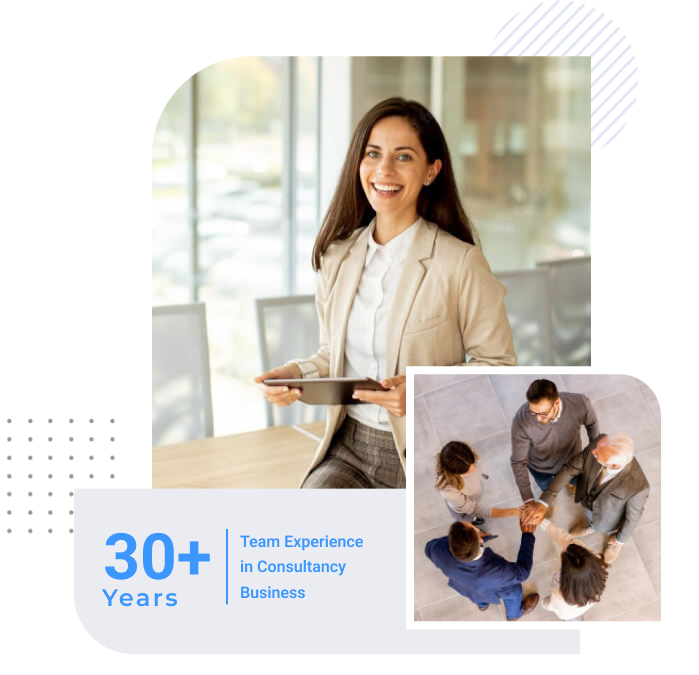
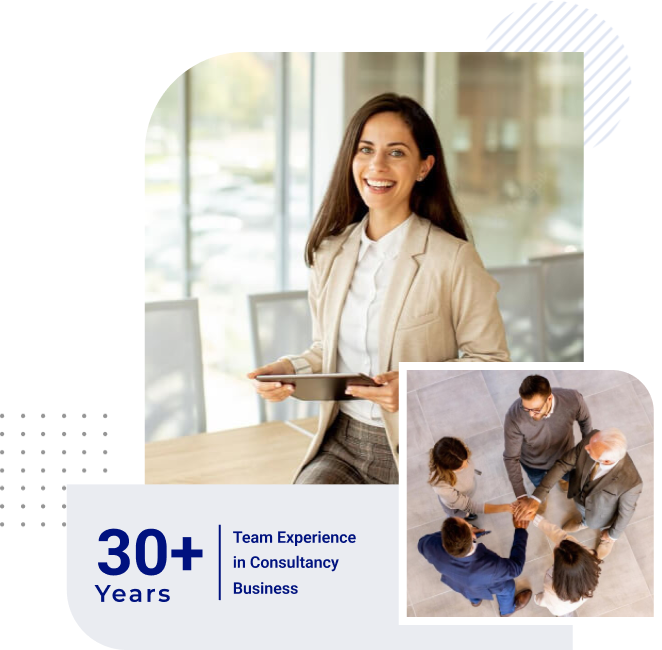
Comments update

diff --git a/src/components/footer/Footer.tsx b/src/components/footer/Footer.tsx
@@ -20,9 +20,8 @@ export const Footer: React.FC = () => {
                         <img src={footerLogo} alt="Footer Logo" className="h-15" />
                     </div>
                     <div className='flex flex-col'>
-                        <span className='font-thin'>Timings:</span>
-                        <span>Monday to Saturday</span>
-                        <span>9.30am to 7pm IST</span>
+                        <span className='text-gray-description text-sm'>Monday to Saturday</span>
+                        <span className='text-gray-description text-sm'>9.30 am - 7 pm IST</span>
                     </div>
                 </div>
 
@@ -41,14 +40,14 @@ export const Footer: React.FC = () => {
                     <h3 className="text-lg font-semibold text-gray-800 mb-4">Quick Links</h3>
                     <div className="flex space-x-16">
                         <ul className="space-y-2 text-gray-description text-sm">
-                            <li><a href={urls.rbi} target='_blank' className="hover:underline hover:text-blue-custom">RBI</a></li>
-                            <li><a href={urls.gst} target='_blank' className="hover:underline hover:text-blue-custom">GST Gov.</a></li>
-                            <li><a href={urls.mca} target='_blank' className="hover:underline hover:text-blue-custom">MCA Gov.</a></li>
+                            <li><a href={urls.rbi} target='_blank' className="hover:underline">RBI</a></li>
+                            <li><a href={urls.gst} target='_blank' className="hover:underline">GST Gov.</a></li>
+                            <li><a href={urls.mca} target='_blank' className="hover:underline">MCA Gov.</a></li>
                         </ul>
                         <ul className="space-y-2 text-gray-description text-sm">
-                            <li><a href={urls.incomeTax} target='_blank' className="hover:underline hover:text-blue-custom">Income Tax India</a></li>
-                            <li><a href={urls.dgft} target='_blank' className="hover:underline hover:text-blue-custom">DGFT Gov</a></li>
-                            <li><a href={urls.sebi} target='_blank' className="hover:underline hover:text-blue-custom">SEBI Gov</a></li>
+                            <li><a href={urls.incomeTax} target='_blank' className="hover:underline">Income Tax India</a></li>
+                            <li><a href={urls.dgft} target='_blank' className="hover:underline">DGFT Gov</a></li>
+                            <li><a href={urls.sebi} target='_blank' className="hover:underline">SEBI Gov</a></li>
                         </ul>
                     </div>
                 </div>
@@ -60,7 +59,7 @@ export const Footer: React.FC = () => {
                             <span className="text-gray-description">
                                 <FaPhoneAlt size={20} />
                             </span>
-                            <span className="text-gray-description text-sm">022 - 35135278 /79</span>
+                            <span className="text-gray-description text-sm">022 - 35135278 / 79</span>
                         </div>
                         <div className="flex items-start space-x-4">
                             <span className="text-gray-description">

diff --git a/src/components/information-screen/about-info.ts b/src/components/information-screen/about-info.ts
@@ -1,3 +1,4 @@
+import { urls } from "../../links/url";
 import { InformationScreenTypeProps } from "./InformationScreen.types";
 import aboutUsImage from '/images/about-us.png'
 import { FaArrowRight } from "react-icons/fa";
@@ -8,7 +9,7 @@ export const aboutUsInfo: InformationScreenTypeProps = {
         title: "Background",
         heading: "Who We Are",
         paragraph: `At <span class="text-blue-custom">Alvino Consultancy</span>, we blend deep technical expertise with practical, results-driven solutions to offer comprehensive end-to-end consulting services. Serving a diverse clientele, we empower businesses to streamline operations, navigate intricate regulatory frameworks, and achieve sustainable growth. With a robust network of affiliates across India as well as Europe & Asia, we deliver seamless solutions that address the unique challenges of both local and international operations. Our suite of services span across the following areas:`,
-        list: ["Tax and Regulatory Compliance", "Advisory Services", "Transaction Structuring", "Assurance", "Strategic Consulting"]
+        list: [{ list: "Tax And Regulatory Services", route: urls.taxRegulatoryService }, { list: "Advisory Services", route: urls.advisoryService }, { list: "Transactions & Deals", route: urls.transactionDealService }, { list: "Assurance Services", route: urls.assuranceService }]
     },
     listIcon: FaArrowRight
 }

diff --git a/src/pages/Services.tsx b/src/pages/Services.tsx
@@ -1,12 +1,7 @@
 import Footer from "../components/footer/Footer";
-import { aboutUsInfo } from "../components/information-screen/about-info";
-import InformationScreen from "../components/information-screen/InformationScreen";
 import Navbar from "../components/navbar/Navbar";
-import { callbackform } from "../components/request-banner/request-banner";
-import RequestBanner from "../components/request-banner/RequestBanner";
 import { cardData } from "../components/service-card/service-card";
 import ServiceCardGrid from "../components/service-card/ServiceCardGrid";
-import { aboutUs } from "../components/sub-banner/about-us";
 import { services } from "../components/sub-banner/our-service";
 import SubBanner from "../components/sub-banner/SubBanner";
 
@@ -17,10 +12,9 @@ const Services = () => {
             <div className="relative">
                 <SubBanner {...services} />
             </div>
-            <div className="mt-20 px-10">
+            <div className="my-20 px-10">
                 <ServiceCardGrid {...cardData} />
             </div>
-            <RequestBanner {...callbackform} />
             <Footer />
         </>
     )

diff --git a/src/components/information-screen/InformationScreen.tsx b/src/components/information-screen/InformationScreen.tsx
@@ -29,7 +29,7 @@ const InformationScreen: React.FC<InformationScreenTypeProps> = ({ image, conten
                                     <ListIcon className="text-white w-3" />
                                 </div>
                             )}
-                            <span className="text-blue-custom text-lg font-medium">{item}</span>
+                            <span className="text-blue-title text-lg font-medium transform transition-all duration-300 ease-in-out hover:scale-105 cursor-pointer"><a href={item.route}>{item.list}</a></span>
                         </li>
                     ))}
                 </ul>

diff --git a/src/components/request-banner/RequestBanner.tsx b/src/components/request-banner/RequestBanner.tsx
@@ -34,7 +34,7 @@ const RequestBanner: React.FC<RequestBannerProps> = ({ title, description }) => 
                         />
                         <button
                             type="submit"
-                            className="w-full bg-[#5991FF] hover:bg-[#4A7FE5] text-white font-medium text-sm p-2 rounded-md transition-colors"
+                            className="w-full bg-blue-title text-white font-medium text-sm p-2 rounded-md transition-colors cursor-pointer"
                         >
                             SEND NOW
                         </button>

diff --git a/src/components/information-screen/InformationScreen.types.ts b/src/components/information-screen/InformationScreen.types.ts
@@ -1,10 +1,14 @@
 import { IconType } from "react-icons";
 
+export type LinkProps = {
+    list: string;
+    route: string
+}
 export type ContentType = {
     title: string;
     heading: string;
     paragraph: any;
-    list: Array<string>
+    list: Array<LinkProps>
 }
 
 export type InformationScreenTypeProps = {
